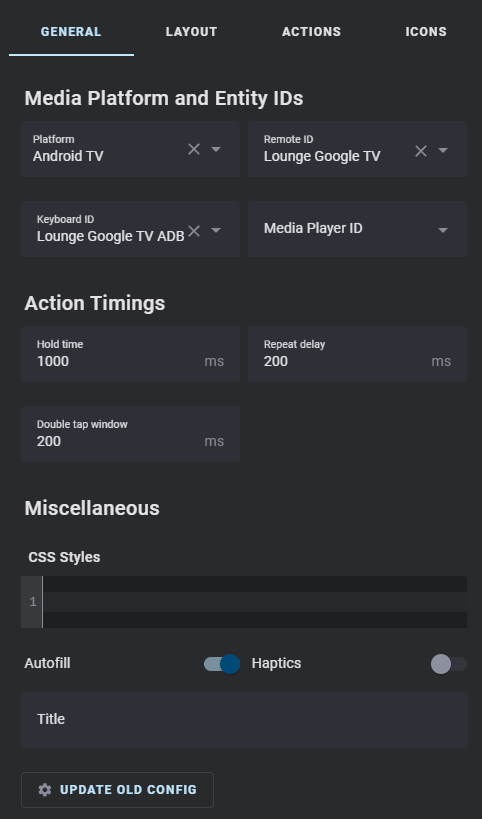
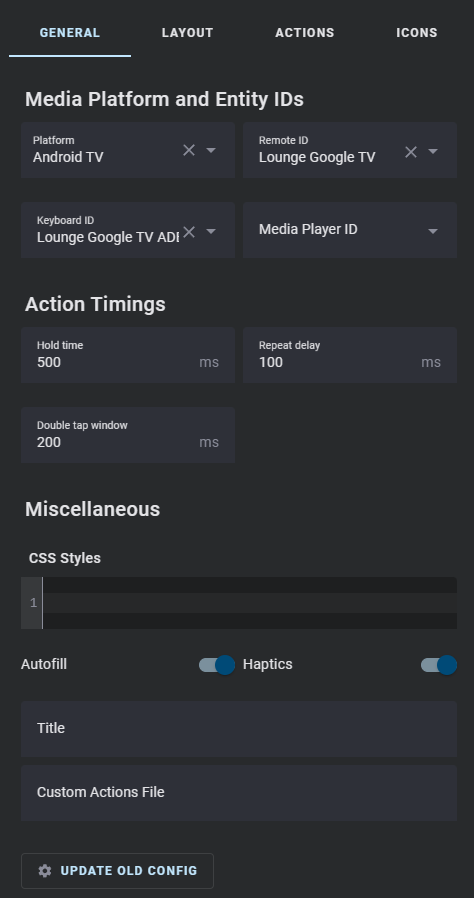
mention custom actions file in README

diff --git a/README.md b/README.md
@@ -139,6 +139,8 @@ When creating custom actions, the card editor will autofill fields using informa
 
 You can add a title to the card with the title field.
 
+Instead of copying the same custom actions across multiple remote cards, you can put custom actions in an array in a JSON or YAML file on your Home Assistant server's config www folder and fetch them by filename, like `local/remote_card_custom_actions.yaml`.
+
 If you are updating from an older version of this card, you may find that your configurations no longer work. Sorry! To upgrade them, click the button `UPDATE OLD CONFIG` at the bottom of the general tab. It should update your configuration to work with newer versions of this card.
 
 # Layout
